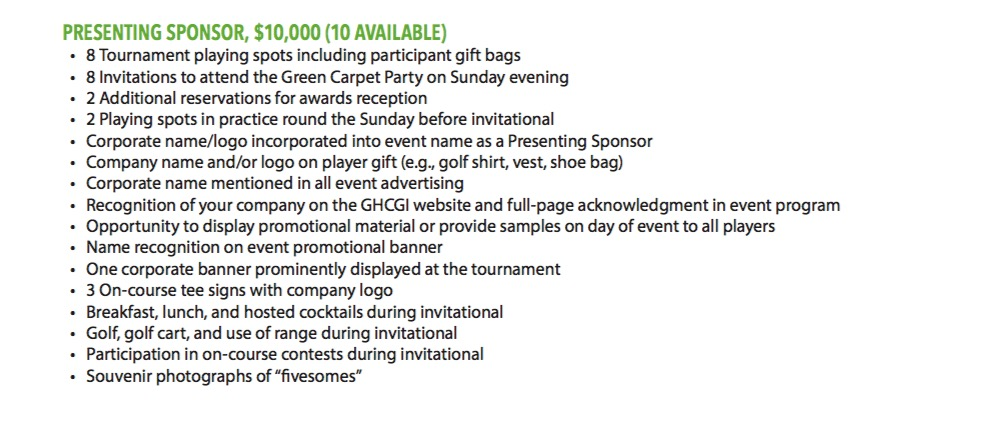
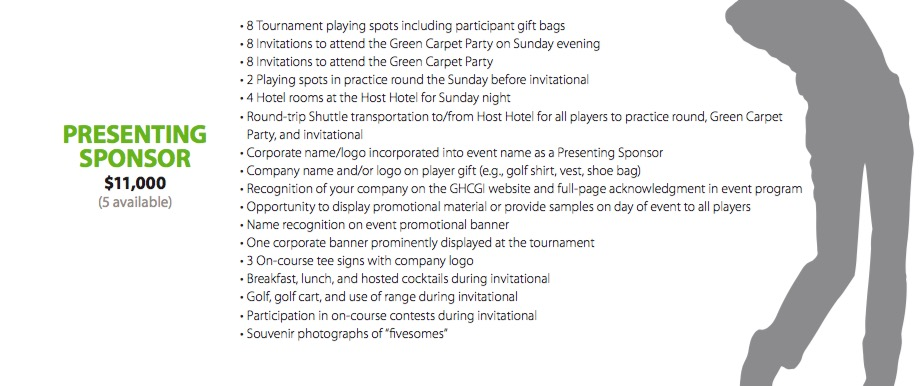
updated package info for 2019

diff --git a/index.html b/index.html
@@ -425,10 +425,10 @@
             <div class="col-lg-12 text-center">
               <h2 class="section-heading">Packages </h2>
             
+              <img src="img/Platinum.jpg">
               <img src="img/Presenting.jpg">
-          
               <img src="img/Gold.jpg">
-              <img src="img/Volunteer2.jpg ">
+              <img src="img/lacarte.jpg">
             </div>
           </div>
          
